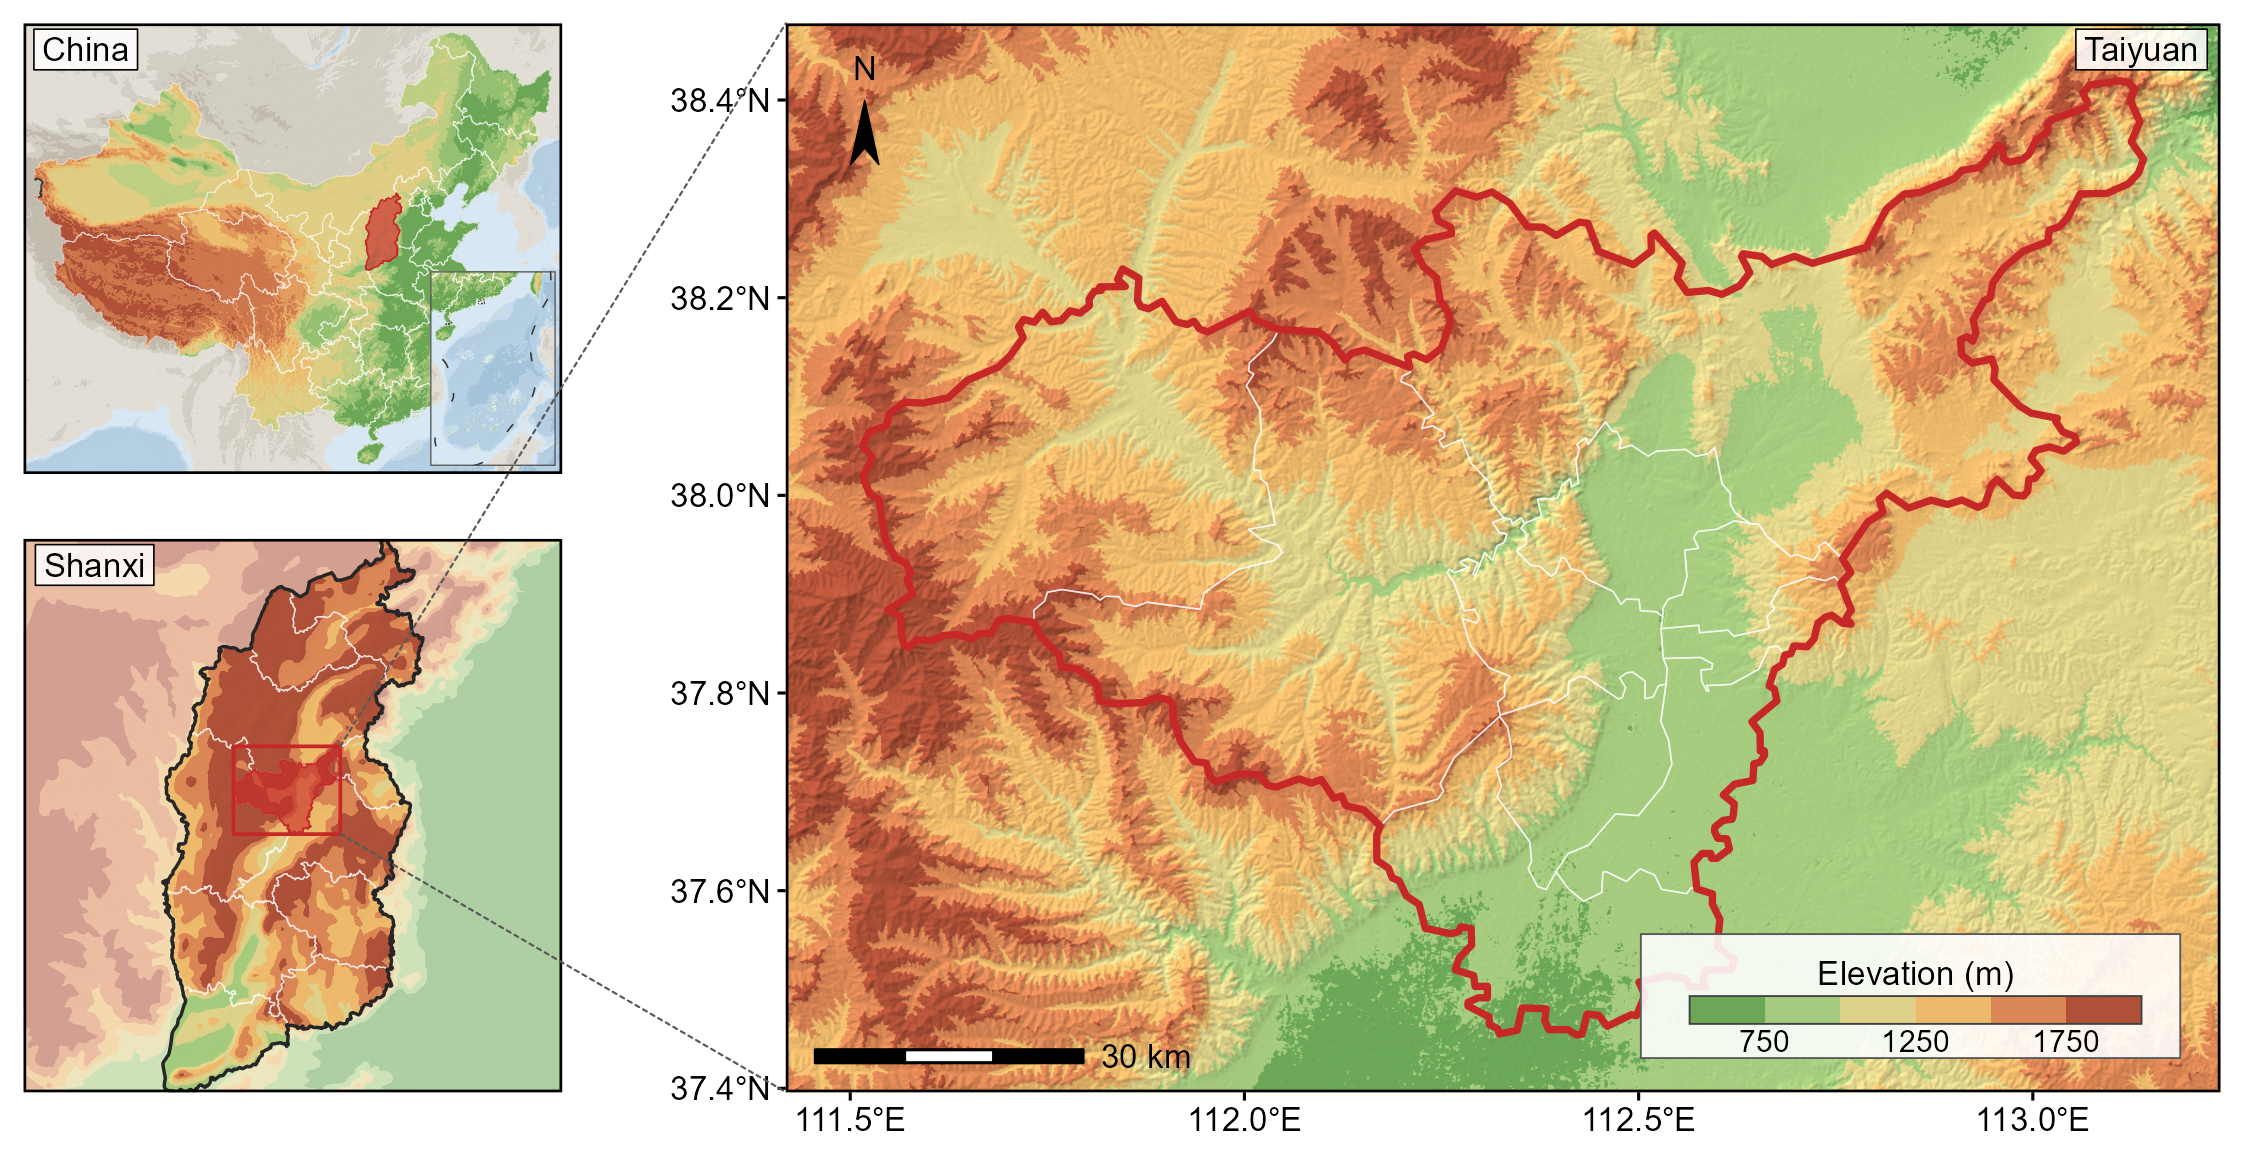
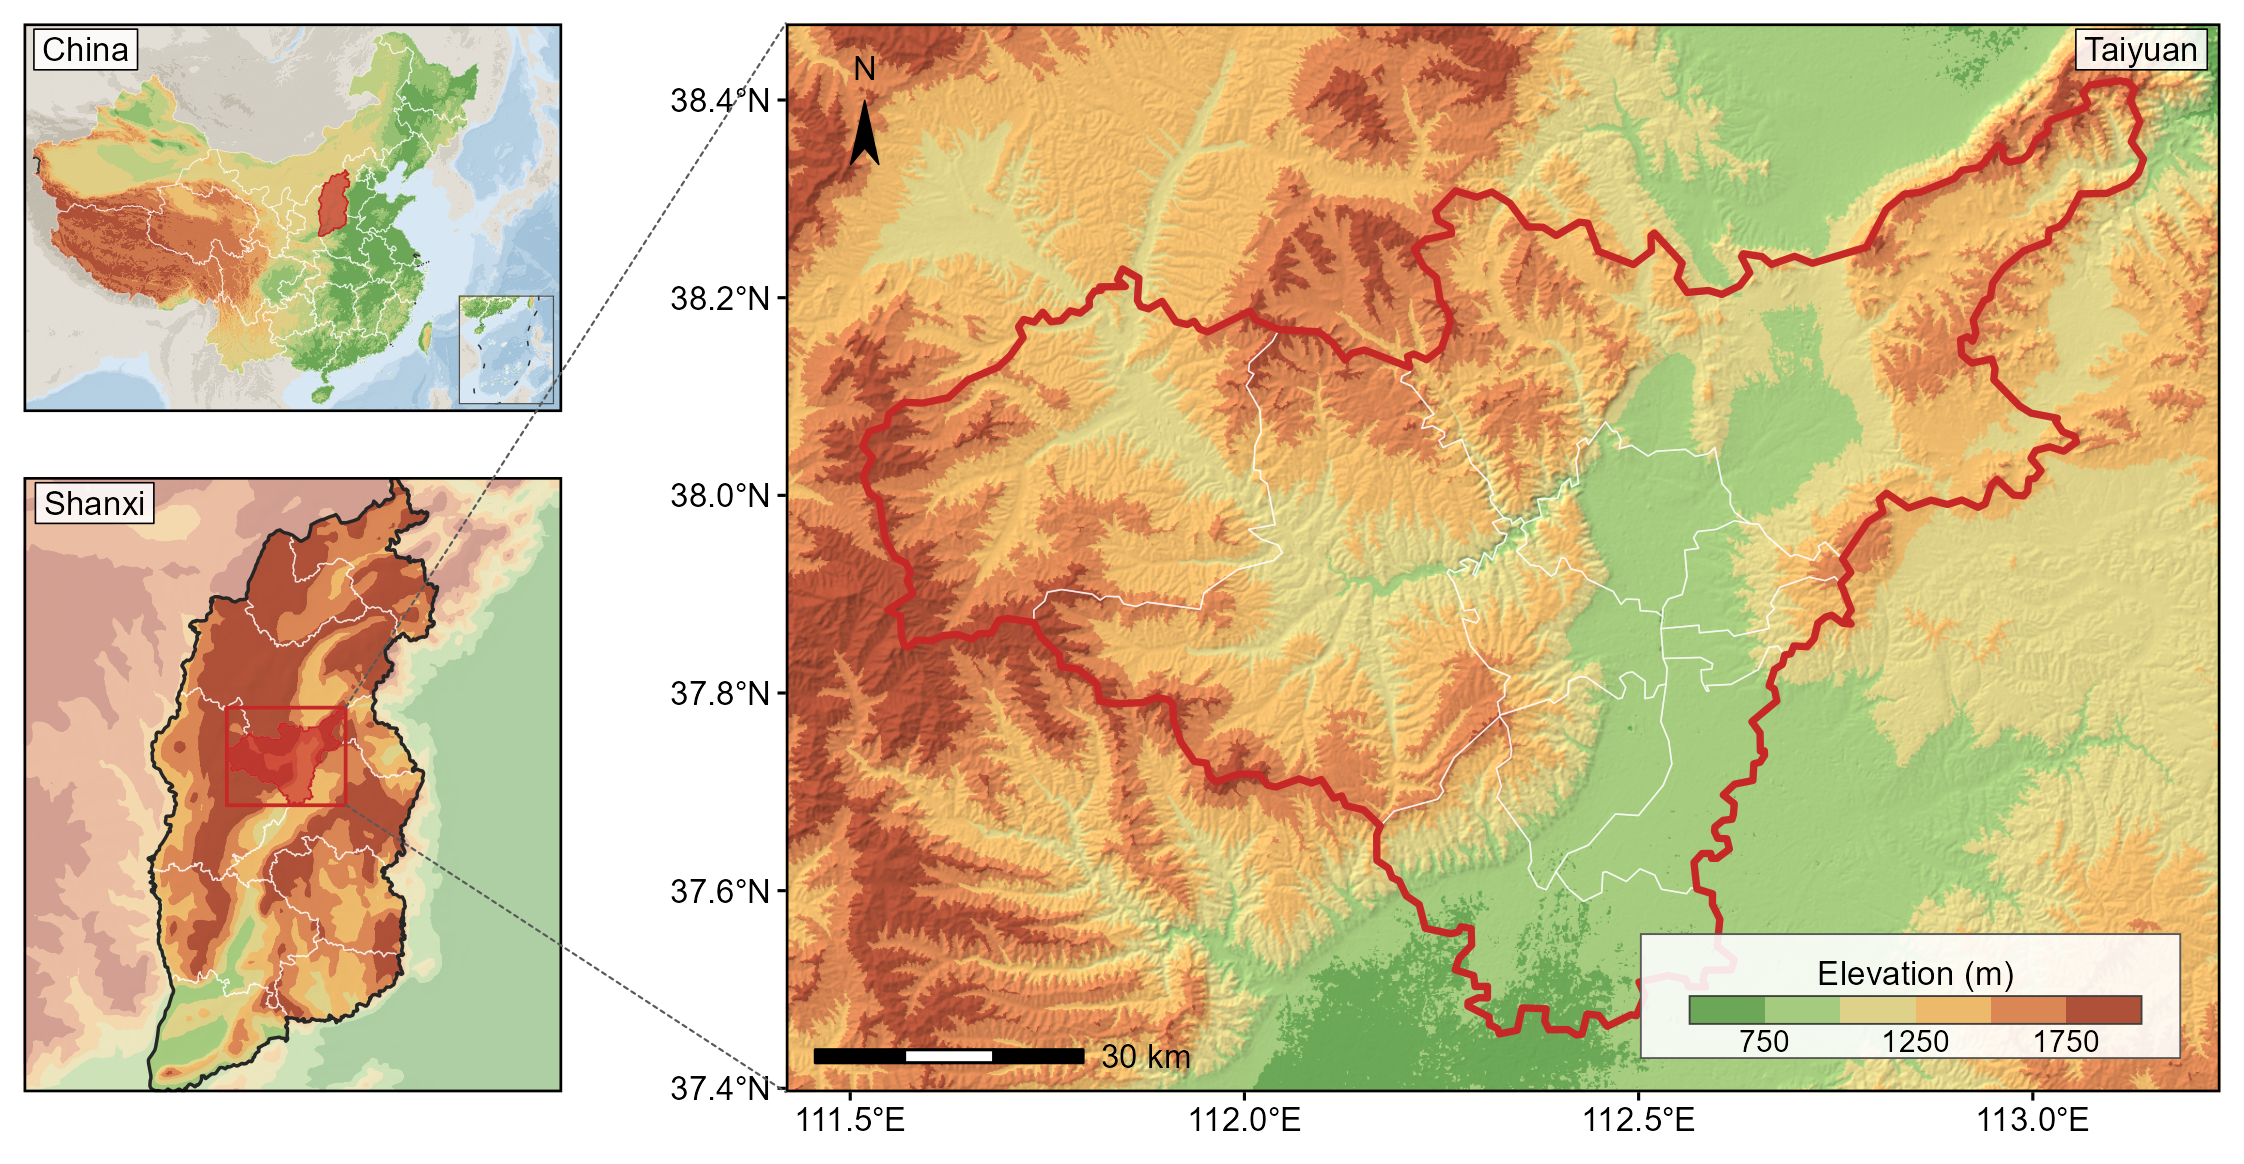
角框不得压盖陆地：窗口自动东扩至角框落空
原角框压掉 537,524 km2 陆地（占框面积 25.3%），涉及上海、江苏、浙江、安徽、
福建、江西、广东、台湾八个省级单元，而图面看不出任何异常。

根因是窗口而非框位：窗口贴着陆域取，四角都有海岸线，框放哪儿都会压。标准图的做法
是把主框东扩到太平洋。新增 inset_is_clear()、assert_inset_clear()、widen_for_inset()，
示例在扩窗与重算框高之间迭代至不动点。

复核：角框压到省级单元 0 个，落在 lon 123.1-135.3 / lat 14.4-27.2 的菲律宾海；
374 个陆域地级单元全部完整在框内。代价一并写进文档：中国框由 38.1 mm 降到 32.9 mm，
窗口east 到 148.5 度，国土画得更小，这正是南海并入主框通常更划算的原因。

Changed region(s): [[0.0, 0.0, 0.2496, 0.9588], [0.3119, 0.8969, 0.3431, 0.9278]]

diff --git a/SKILL.md b/SKILL.md
@@ -299,7 +299,23 @@ Draw the segments as one `grid::segmentsGrob()` in mm over the composed gtable (
 Three ways out:
 
 1. **Widen the main window so the inset is unnecessary.** Extend the window until every layer that must appear falls inside the main frame. This removes an element and the conflict at once, and is usually the best answer.
-2. **Keep the inset and drop the leader pair that would cross it.** A locator panel whose highlight is a filled accent-coloured patch already points at the next panel; the leaders are reinforcement, not the only cue. Use `corner_inset()`, and size the inset's window with `fit_aspect(bb, inset_aspect(win, x, y))` first — an inset whose window aspect does not match its box gets letterboxed by `coord_sf` and its edges stop aligning.
+2. **Keep the inset and drop the leader pair that would cross it.** First make the corner empty — see below. A locator panel whose highlight is a filled accent-coloured patch already points at the next panel; the leaders are reinforcement, not the only cue. Use `corner_inset()`, and size the inset's window with `fit_aspect(bb, inset_aspect(win, x, y))` first — an inset whose window aspect does not match its box gets letterboxed by `coord_sf` and its edges stop aligning.
+**A corner inset has to land on empty ground, and a window fitted to the land has no empty corner.** Fitting the window to the region puts coastline in every corner, so the box covers real map. Measured on a China panel fitted to the mainland, a box occupying the right 23% and bottom 43% of the panel covered 537,524 km² of the country — a quarter of the box — across eight province-level units. Nothing about the figure looks wrong; the reader simply loses that land and cannot tell how much.
+
+There is no box placement that fixes this, because the obstruction is the window, not the box. Widen the window on that side until the corner is open sea, which is why published national maps carrying a corner inset extend well past the coast. Widening changes the aspect, which changes the panel height, which moves the box, so iterate to a fixed point:
+
+```r
+for (i in 1:12) {
+  W <- widen_for_inset(W, IX, IY, region, side = "xmax")
+  h <- clamp(col_w / win_aspect(W))
+  W <- fit_aspect(W, col_w / h)
+  if (inset_is_clear(W, IX, IY, region)) break
+}
+assert_inset_clear(W, IX, IY, region)
+```
+
+The cost is real and worth stating: the same panel went from 38.1 mm tall to 32.9 mm, and the window now reaches 148°E, so the country is drawn smaller. That is the price of the inset, and it is why widening the window to include the far territory outright is usually the better of the two options.
+
 3. Drop the leader lines entirely. Legitimate — many journals' figures have none — but then the panels need some other cue tying them together (shared accent colour, matched frames).
 
 Also clear the target side: put the main panel's latitude labels on the **right** (`scale_y_continuous(position = "right")`) when leaders arrive from the left, or they cross the tick labels.
@@ -417,6 +433,7 @@ Two things still need explicit syncing because they are computed per figure:
 - Taking the window from one layer's bbox when several layers must fit — partial line layers cut whole regions off, and the result still looks like a map
 - Sizing an inset from a corner-bbox aspect ratio instead of the rendered panel ratio
 - A `geom_sf()` added after `coord_sf(xlim =, ylim =)` — the limits are silently discarded and the panel reverts to the data extent
+- A corner inset dropped into a window fitted to the land — it covers part of the map and nothing about the result looks wrong
 - Calling `ggplotGrob()` with no font-aware device open
 - A white casing under the accent-coloured boundary: at figure scale the casing blends into the line and it reads pink, not red, and no longer matches its own legend swatch
 - Two line styles on the map, one entry in the legend
